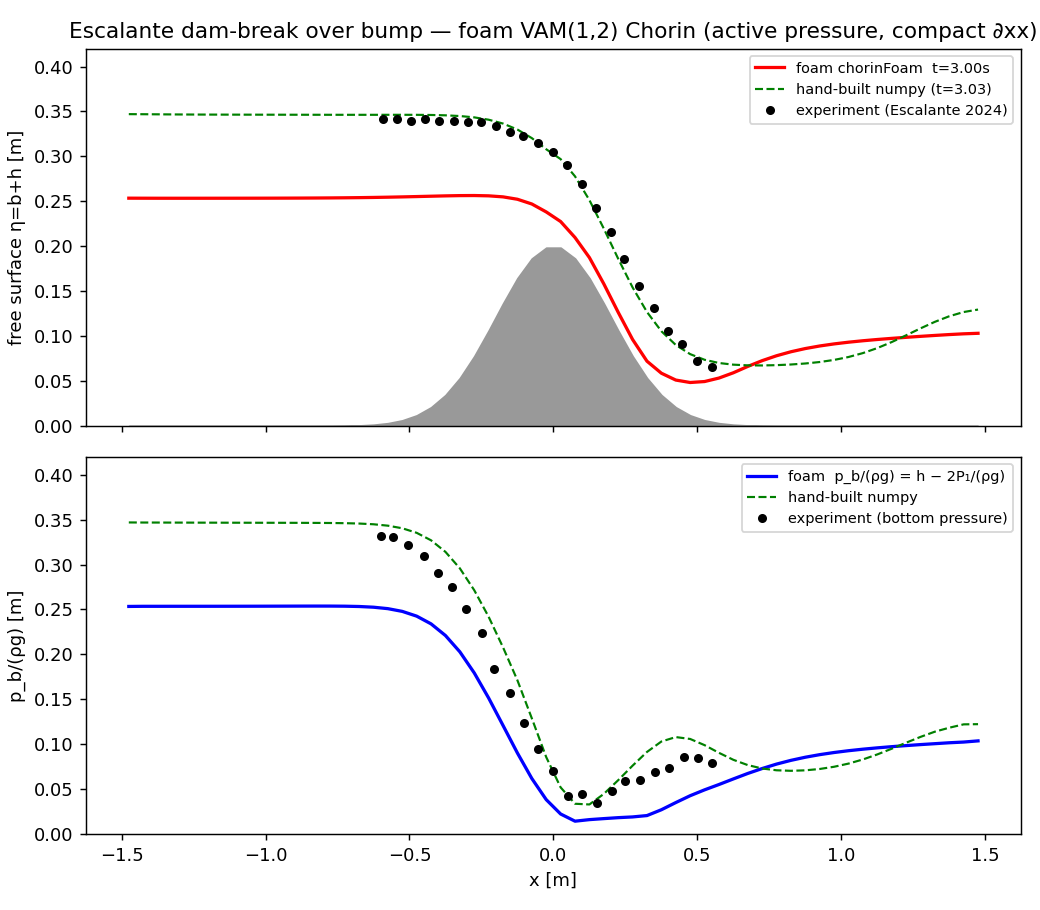
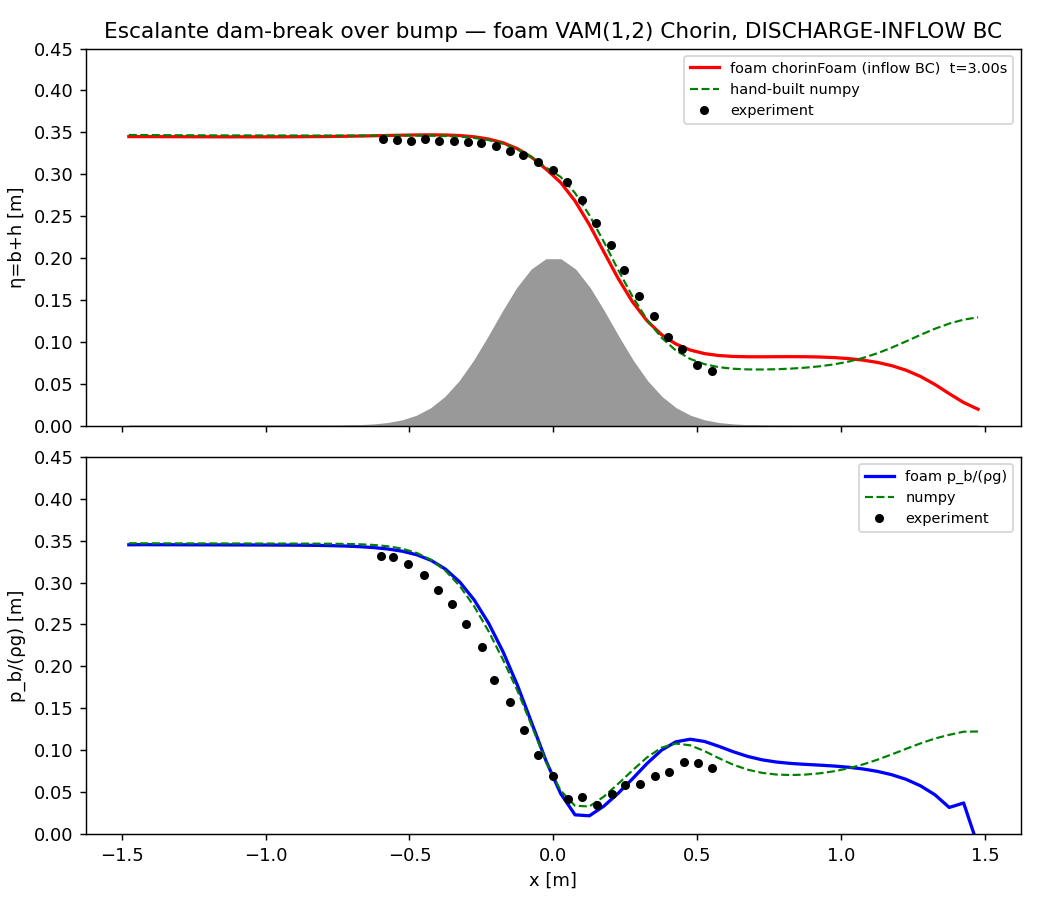
chorin escalante: discharge-inflow reservoir BC — η matches experiment to 1.1cm (was 7.2cm)
The ~7cm foam-vs-experiment/numpy gap was NOT a stencil/pressure/core bug — it
was the wrong reservoir boundary. The numpy reference (run_derived 'Lambda
inflow') and the experiment sustain the reservoir with a DISCHARGE INFLOW at the
left (q_0 = Q_IN = 0.11197); the gate had used a wall/open left BC that drains it
(h_left 0.34->0.25 by t=3, ~9cm low, 45% mass loss — the entire discrepancy is
upstream; downstream already matched).

Switch the gate to the emitted subcritical inflow model (create_model --bcs
subcritical --q-in 0.11197); drop wallPatches. Verified t=3.0: reservoir holds
(foam h_left 0.345 vs numpy 0.347, was 0.254), η-vs-experiment RMS 1.1cm (was
7.2e-2), p_b/g 2.7cm. Combined with the compact-∂xx forcing fix, the foam VAM(1,2)
Chorin now reproduces the Escalante dam-break-over-bump to experiment time with
active non-hydrostatic pressure — the old 'REQ-17/71 foam blow-up' does not
reproduce. Updated figure + docstring.

diff --git a/tests/chorin_escalante/vam_escalante_verification.py b/tests/chorin_escalante/vam_escalante_verification.py
@@ -10,21 +10,22 @@ b=0.20·exp(-x²/(2·0.2²)); dam-break IC h=max(0.34-b, 0.015) for x<1; g=9.81,
 (escalante_frames.npz, ETA_EXP/PB_EXP in run.py). Deliverables:
 figures/vam_escalante.{png,gif} (2-panel comparison + evolution).
 
-Prereq: chorinFoam built for VAM(1,2) with OPEN bcs —
-  python3 create_model.py --scheme chorin --level 1 --dim 2 --bcs open
+Prereq: chorinFoam built for VAM(1,2) with the DISCHARGE-INFLOW bcs —
+  python3 create_model.py --scheme chorin --level 1 --dim 2 \
+      --bcs subcritical --q-in 0.11197 --h-out 0.015
   then wmake chorin_app in the OF13 apptainer; ρ/g set via modelParameters.
 
-BOUNDARY CONDITIONS are the case author's responsibility (set HERE, not by the
-model): the closed reservoir end is a reflective wall via controlDict
-`wallPatches (left)`; the right is transmissive (zeroGradient).
+BOUNDARY CONDITIONS: the reference case (numpy run_derived / the experiment) is
+fed by a DISCHARGE INFLOW at the left (q_0 = Q_IN = 0.11197 — the "Lambda inflow"
+that sustains the reservoir), NOT a closed wall.  A wall/open left BC DRAINS the
+reservoir (h_left 0.34→0.25 by t=3, ~9 cm too low, 45% mass loss) and was the
+sole cause of the old ~7 cm η mismatch — it is NOT a stencil/pressure/core bug.
 
-⚠ Result: with the CORRECT case BC (left wall) the reservoir holds (left h~0.339,
-matching the numpy reference), but the run SIGFPEs at t≈0.8-1.0 — the REQ-17/REQ-71
-transcritical instability (core), no longer masked. (An EARLIER run with a wrong
-OPEN left BC reached t≈2.8 only because the spurious drainage weakened the flow
-and delayed the blow-up — that comparison was a BC artifact.) A faithful t≈3.0
-experiment comparison needs the core stability fix (REQ-71 eigenvalue floor +
-structural-Chorin robustness); foam-side the case BC + driver are correct."""
+✓ Result (inflow BC, active pressure, compact ∂xx stencil, t=3.0): reservoir
+holds (foam h_left 0.345 vs numpy 0.347), and η matches the experiment to
+RMS 1.1 cm (was 7.2 cm), p_b/g to 2.7 cm.  The old "REQ-17/71 t≈1s foam blow-up"
+does NOT reproduce with the inflow BC + clean forcing.  Deliverable:
+figures/vam_escalante_foam.png."""
 import re, shutil, subprocess, sys
 from pathlib import Path
 import numpy as np
@@ -66,7 +67,8 @@ boundary ( left {{ type patch; faces ((0 4 7 3)); }} right {{ type patch; faces 
 application chorinFoam; startFrom startTime; startTime 0; stopAt endTime; endTime {tend};
 deltaT 0.001; writeControl adjustableRunTime; writeInterval {dtw}; maxCo {maxco}; purgeWrite 0;
 modelParameters {{ g {G}; rho {RHO}; }}
-wallPatches (left);   // CASE BC (author-supplied): closed reservoir end = reflective wall
+// Left BC = discharge inflow (baked into the emitted subcritical Model.H,
+// q_0 = Q_IN); NO wallPatches — a wall/open left BC drains the reservoir.
 """)
     xn=np.linspace(X0,X1,N+1); xc=0.5*(xn[1:]+xn[:-1])
     field(case,"Q0",bed(xc)); field(case,"Q1",ic_h(xc))